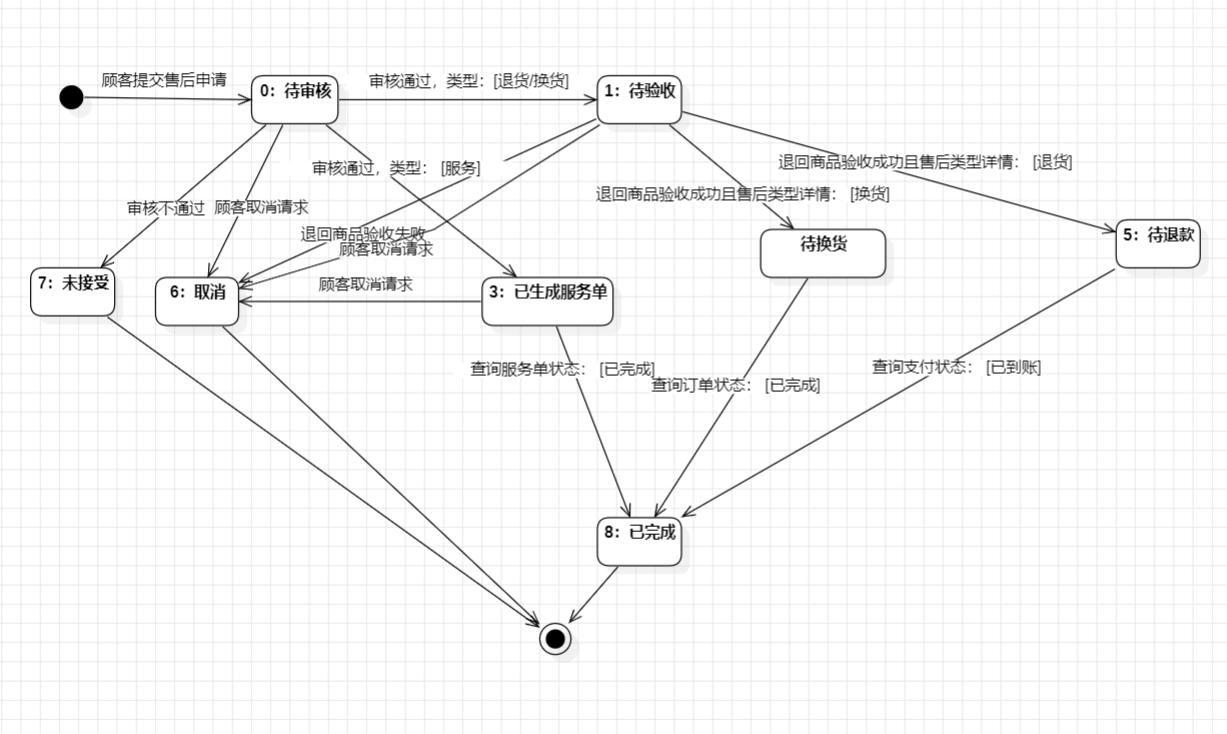
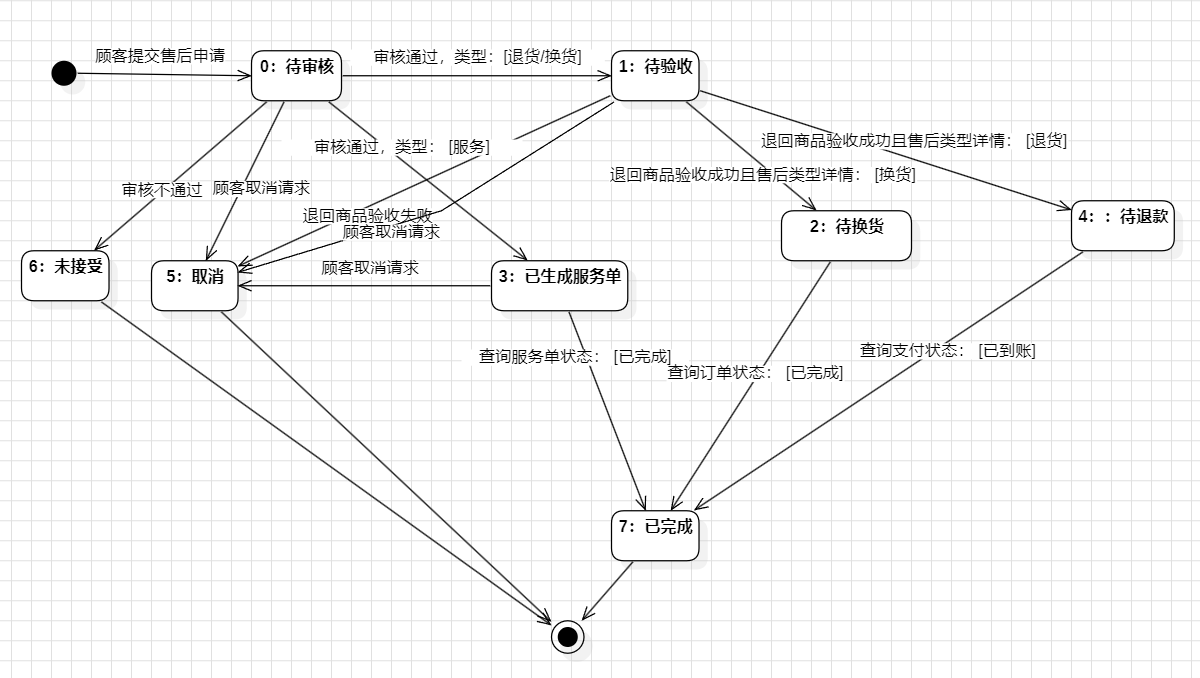
补充顾客cancel部分内容
实现了SimpleCancelAction，ServiceCancel部分完成

diff --git a/aftersale/src/main/java/cn/edu/xmu/oomall/aftersale/service/strategy/impl/cancel/ServiceCancelAction.java b/aftersale/src/main/java/cn/edu/xmu/oomall/aftersale/service/strategy/impl/cancel/ServiceCancelAction.java
@@ -1,10 +1,16 @@
 package cn.edu.xmu.oomall.aftersale.service.strategy.impl.cancel;
 
+import cn.edu.xmu.javaee.core.exception.BusinessException;
+import cn.edu.xmu.javaee.core.model.InternalReturnObject;
+import cn.edu.xmu.javaee.core.model.ReturnNo;
+import cn.edu.xmu.oomall.aftersale.controller.dto.ServiceOrderCancelDTO;
+import cn.edu.xmu.oomall.aftersale.controller.dto.ServiceOrderResponseDTO;
 import cn.edu.xmu.oomall.aftersale.dao.bo.AftersaleOrder;
 import cn.edu.xmu.oomall.aftersale.service.strategy.action.CancelAction;
+import jakarta.annotation.Resource;
 import lombok.extern.slf4j.Slf4j;
 import org.springframework.stereotype.Component;
-
+import cn.edu.xmu.oomall.aftersale.service.feign.ServiceOrderClient;
 /**
  * 服务单取消策略
  * 场景：维修单审核通过后生成了“服务单”。
@@ -13,13 +19,50 @@ import org.springframework.stereotype.Component;
 @Component("serviceCancelAction")
 public class ServiceCancelAction implements CancelAction {
 
-
+    @Resource
+    private ServiceOrderClient serviceOrderClient;
     @Override
     public Integer execute(AftersaleOrder bo) {
         log.info("[ServiceCancelAction] 命中服务单取消策略，boId={}", bo.getId());
-        // TODO: 1. 调用服务单微服务，取消对应的服务工单
+        // 2. 必须存在服务单号
+        if (bo.getServiceOrderId() == null) {
+            throw new IllegalStateException("未找到关联服务单，无法取消");
+        }
 
-        //取消状态变更为 已取消()
+        // 1. 组装参数
+        ServiceOrderCancelDTO dto = ServiceOrderCancelDTO.builder()
+                .result("顾客取消服务单")
+                .build();
+        String token = null;
+        /**
+         * 此处需要调用服务模块的查找服务商Id的api,取消服务单需要传入服务商id,但售后表没有
+         *
+         *
+         */
+        try {
+            // 2. 远程调用
+            InternalReturnObject<ServiceOrderResponseDTO> ret = serviceOrderClient.customerCancelServiceOrder(
+                    bo.getShopId(), /*此处应为服务商id,具体需要修改项目*/
+                    bo.getServiceOrderId(),
+                    token,
+                    dto
+            );
+
+            // 3. 处理结果
+            if (ret.getErrno() == 0 ) {
+                log.info("[ServiceCancelAction] 维修服务单取消成功, 服务单号: {}", bo.getServiceOrderId());
+            } else {
+                log.error("[ServiceCancelAction] 服务模块返回错误: {}", ret.getErrmsg());
+                throw new BusinessException(ReturnNo.REMOTE_SERVICE_FAIL, ret.getErrmsg());
+            }
+
+        } catch (BusinessException be) {
+            throw be;
+        } catch (Exception e) {
+            log.error("[ServiceCancelAction] 远程调用异常, boId={}", bo.getId(), e);
+            throw new BusinessException(ReturnNo.REMOTE_SERVICE_FAIL);
+        }
+        // 4. 返回新的状态：取消(5)
         return AftersaleOrder.CANCEL;
     }
 }

diff --git a/aftersale/src/main/java/cn/edu/xmu/oomall/aftersale/controller/AftersaleOrderController.java b/aftersale/src/main/java/cn/edu/xmu/oomall/aftersale/controller/AftersaleOrderController.java
@@ -10,6 +10,7 @@ import cn.edu.xmu.oomall.aftersale.service.AftersaleOrderService;
 import cn.edu.xmu.oomall.aftersale.service.vo.AftersaleOrderVo;
 import lombok.RequiredArgsConstructor;
 import lombok.extern.slf4j.Slf4j;
+import org.apache.ibatis.annotations.Delete;
 import org.springframework.transaction.annotation.Propagation;
 import org.springframework.transaction.annotation.Transactional;
 import org.springframework.web.bind.annotation.*;
@@ -129,6 +130,44 @@ public class AftersaleOrderController {
             return new ReturnObject(ReturnNo.INTERNAL_SERVER_ERR);
         }
     }
+    /**
+     *顾客取消某一售后单
+     * @param id
+     * @param user
+     * @return
+     */
+    @DeleteMapping("aftersales/{id}")
+    public ReturnObject customerCancel(
+                               @PathVariable Long id,
+                               UserToken user) {
+
+        log.info("收到顾客取消售后单请求:  id={}, user={}",  id, user);
+
+        // 如果没有登录（或者测试环境下），手动创建一个模拟的顾客
+        if (user == null || user.getId() == null || user.getName() == null) {
+            log.warn("检测到用户信不完整 (id={}, name={})，启用 Mock 用户",
+                    (user != null ? user.getId() : "null"),
+                    (user != null ? user.getName() : "null"));
+            user = new UserToken();
+            user.setId(1L);
+            user.setName("customer-test");
+            user.setDepartId(0L);
+        }
 
 
+        try {
+            aftersaleOrderService.customerCancel(id, user);
+            log.info("售后单取消成功: id={}", id);
+            return new ReturnObject(ReturnNo.OK);
+        } catch (IllegalArgumentException e) {
+            log.warn("取消失败(参数错误): id={}, error={}", id, e.getMessage());
+            return new ReturnObject(ReturnNo.FIELD_NOTVALID, e.getMessage());
+        } catch (IllegalStateException e) {
+            log.warn("取消失败(状态不允许): id={}, error={}", id, e.getMessage());
+            return new ReturnObject(ReturnNo.STATENOTALLOW, e.getMessage());
+        } catch (Exception e) {
+            log.error("取消售后单异常: id={}", id, e);
+            return new ReturnObject(ReturnNo.INTERNAL_SERVER_ERR);
+        }
+    }
 }

diff --git a/aftersale/src/main/java/cn/edu/xmu/oomall/aftersale/service/AftersaleOrderService.java b/aftersale/src/main/java/cn/edu/xmu/oomall/aftersale/service/AftersaleOrderService.java
@@ -82,30 +82,40 @@ public class AftersaleOrderService {
     }
 
     /**
-     * 取消售后单
+     * 顾客取消售后单
      */
-    public void cancel(Long id, UserToken user) {
+    public void customerCancel(Long id, UserToken user) {
         log.info("开始取消售后单: id={}, user={}", id, user);
 
         // 1. 查出 PO
         AftersaleOrderPo po = aftersaleOrderDao.findById(id);
         if (po == null) {
+            log.warn("取消失败: 售后单不存在, id={}", id);
             throw new BusinessException(ReturnNo.RESOURCE_ID_NOTEXIST, "售后单不存在");
         }
 
         // 2. 转为 BO
         AftersaleOrder bo = CloneFactory.copy(new AftersaleOrder(), po);
+        // 3. 校验 (请求中：待审核   处理中：待验收/已生成服务单
+        if  (  (!Objects.equals(bo.getStatus(), AftersaleOrder.UNAUDIT))
+             ||(!Objects.equals(bo.getStatus(), AftersaleOrder.UNCHECK))
+             ||(!Objects.equals(bo.getStatus(), AftersaleOrder.GENERATE_SERVICEORDER))
+        ) {
+            log.warn("取消失败: 状态不正确, id={}, currentStatus={}", id, bo.getStatus());
+            throw new BusinessException(ReturnNo.STATENOTALLOW, "当前状态不允许审核");
+        }
 
-        // 3. 执行 BO 业务逻辑
-        bo.cancel(strategyRouter);
 
-        // 4.BO 更新审计信息
+        // 4. 执行 BO 业务逻辑
+        bo.customerCancel(strategyRouter);
+
+        // 5.BO 更新审计信息
         bo.setModifier(user);
 
-        // 5. 将 BO 同步回 PO
+        // 6. 将 BO 同步回 PO
         po = CloneFactory.copy(po, bo);
 
-        // 6. 持久化
+        // 7. 持久化
         aftersaleOrderDao.update(po);
 
         log.info("[Service] 取消完成: boId={}, 新状态={}", id, po.getStatus());

diff --git a/aftersale/src/main/java/cn/edu/xmu/oomall/aftersale/dao/bo/AftersaleOrder.java b/aftersale/src/main/java/cn/edu/xmu/oomall/aftersale/dao/bo/AftersaleOrder.java
@@ -36,7 +36,7 @@ public class AftersaleOrder extends OOMallObject implements Serializable{
     private Long orderId;
     private Long serviceOrderId;
 
-    private Integer type;
+    private Integer type; //0换货，1退货, 2维修
     private Integer status;
     private String conclusion;
     private String reason;
@@ -149,7 +149,7 @@ public class AftersaleOrder extends OOMallObject implements Serializable{
     }
 
     /**
-     * 1. 审核服务单
+     * 1. 审核售后单
      * @param router 传入策略路由工具
      */
     public void audit(String conclusionIn, String reasonIn, boolean confirm, StrategyRouter router) {
@@ -197,10 +197,10 @@ public class AftersaleOrder extends OOMallObject implements Serializable{
 
 
     /**
-     * 2. 取消服务单
+     * 2. 顾客取消售后单
      * @param router 传入策略路由工具
      */
-    public void cancel(StrategyRouter router) {
+    public void customerCancel(StrategyRouter router) {
         // 1. 获取取消策略
         CancelAction action = router.route(this.type, this.status, "CANCEL", CancelAction.class);
 

diff --git a/aftersale/src/main/java/cn/edu/xmu/oomall/aftersale/service/feign/ServiceOrderClient.java b/aftersale/src/main/java/cn/edu/xmu/oomall/aftersale/service/feign/ServiceOrderClient.java
@@ -1,5 +1,6 @@
 package cn.edu.xmu.oomall.aftersale.service.feign;
 
+import cn.edu.xmu.oomall.aftersale.controller.dto.ServiceOrderCancelDTO;
 import cn.edu.xmu.oomall.aftersale.controller.dto.ServiceOrderCreateDTO;
 import cn.edu.xmu.oomall.aftersale.controller.dto.ServiceOrderResponseDTO;
 import org.springframework.cloud.openfeign.FeignClient;
@@ -15,5 +16,12 @@ public interface ServiceOrderClient {
             @PathVariable("id") Long afterSalesId,
             @RequestHeader(value = "authorization", required = false) String token,
             @RequestBody ServiceOrderCreateDTO payload
+    );
+    @PutMapping("/maintainers/{did}/service/{id}/cancel")
+    InternalReturnObject<ServiceOrderResponseDTO> customerCancelServiceOrder(
+            @PathVariable("did") Long maintainerId,
+            @PathVariable("id") Long serviceOrderId,
+            @RequestHeader(value = "authorization", required = false) String token,
+            @RequestBody ServiceOrderCancelDTO payload
     );
 }

diff --git a/aftersale/src/main/java/cn/edu/xmu/oomall/aftersale/service/strategy/impl/cancel/SimpleCancelAction.java b/aftersale/src/main/java/cn/edu/xmu/oomall/aftersale/service/strategy/impl/cancel/SimpleCancelAction.java
@@ -17,11 +17,13 @@ public class SimpleCancelAction implements CancelAction {
     @Override
     public Integer execute(AftersaleOrder bo) {
         log.info("[SimpleCancelAction] 命中简单取消策略，boId={}", bo.getId());
-        // TODO: 1. 修改数据库状态为 6 (已取消)
-        // TODO: 2. 记录操作日志
 
-
+        // 3. 直接改状态
+        bo.setStatus(AftersaleOrder.CANCEL);
+        // 4. 记录
+        log.info("[SimpleCancelAction] 售后单取消成功, 顾客编号：{},售后单号: {}", bo.getCustomerId(),bo.getId());
         //取消状态变更为 已取消(6)
         return AftersaleOrder.CANCEL;
+
     }
 }

diff --git a/aftersale/src/main/java/cn/edu/xmu/oomall/aftersale/controller/dto/ServiceOrderCancelDTO.java b/aftersale/src/main/java/cn/edu/xmu/oomall/aftersale/controller/dto/ServiceOrderCancelDTO.java
@@ -1,0 +1,10 @@
+package cn.edu.xmu.oomall.aftersale.controller.dto;
+
+import lombok.Builder;
+import lombok.Data;
+
+@Builder
+@Data
+public class ServiceOrderCancelDTO {
+    private String result;
+}
